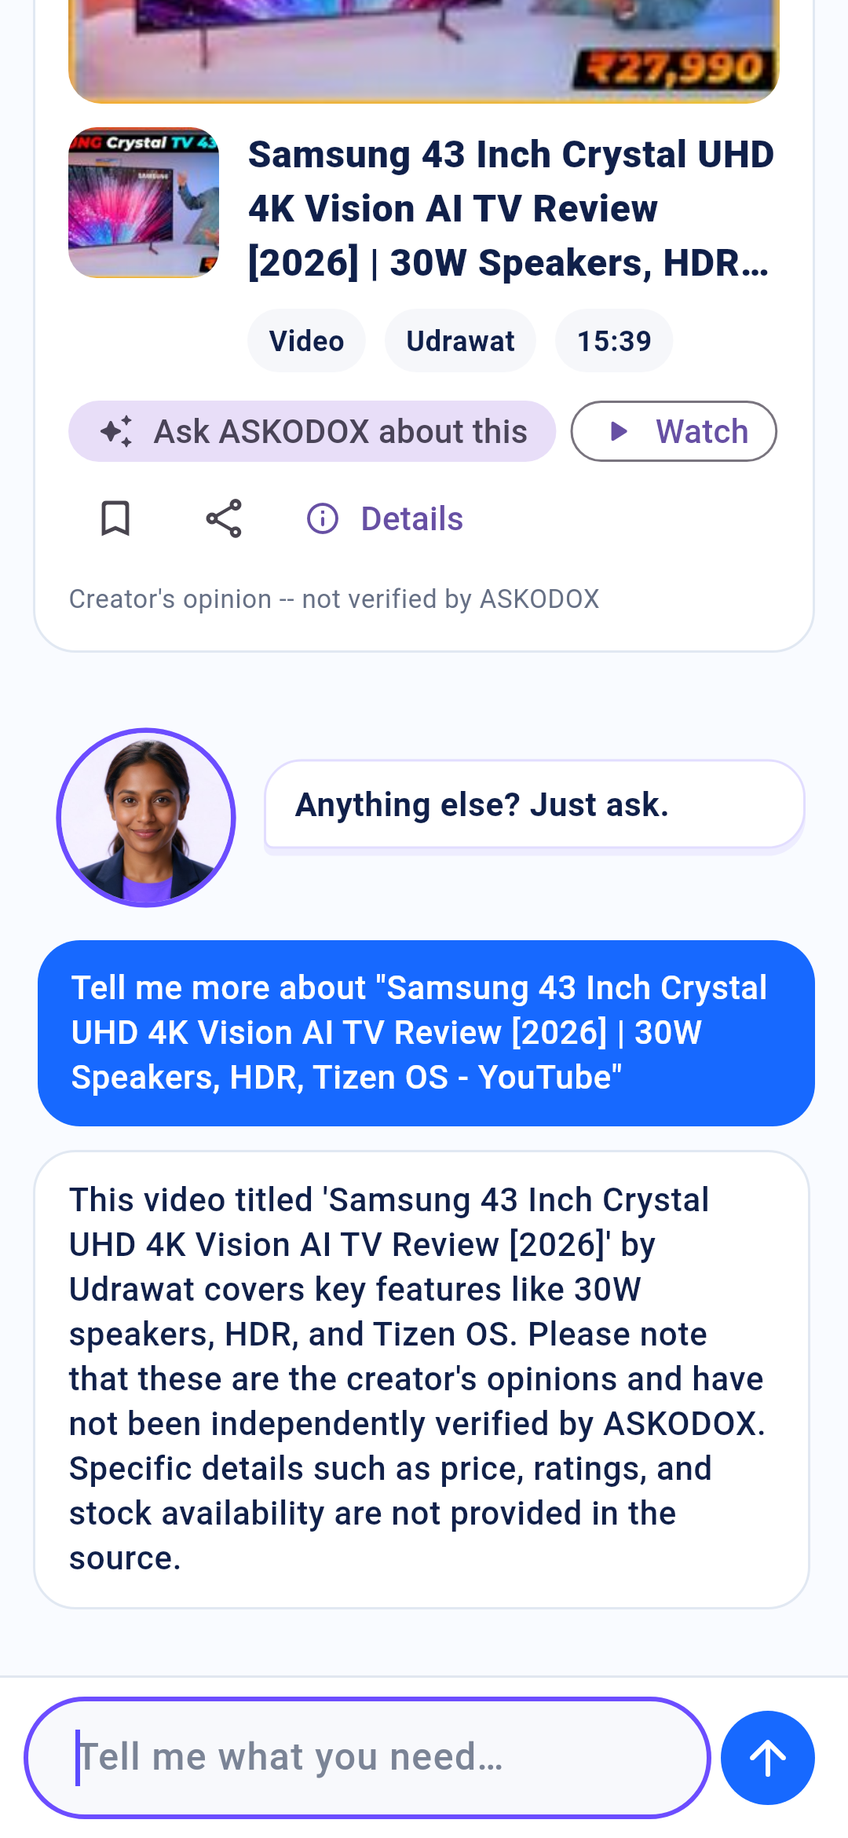
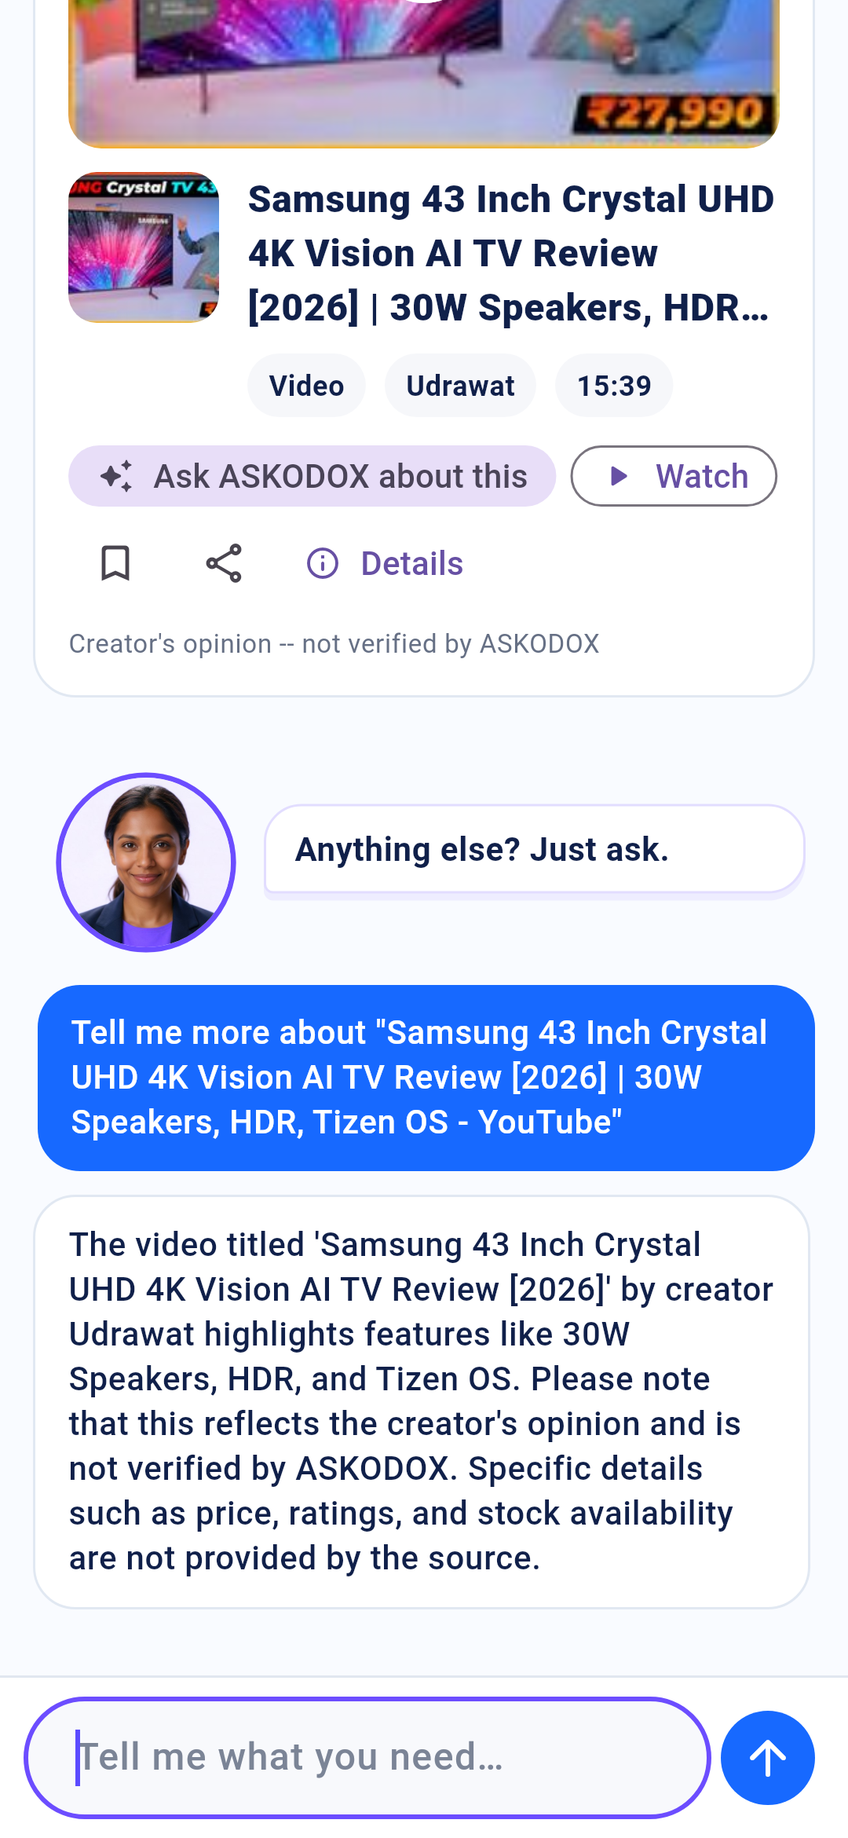
Video real-content proof (run 36656721936)

Changed region(s): [[0.0306, 0.0, 0.9778, 0.8735], [0.3056, 0.4056, 0.7944, 0.4679]]

diff --git a/docs/video_proof/README.md b/docs/video_proof/README.md
@@ -1,6 +1,6 @@
 # Real video content proof
 
-Generated 2026-09-30T01:41:45Z by `.github/workflows/video-real-content-proof.yml` (run 36656034203).
+Generated 2026-09-30T01:50:26Z by `.github/workflows/video-real-content-proof.yml` (run 36656721936).
 
 * Video rows: **real**, from production's live web video search (Brave) -- replayed into this branch's pipeline, which adds references, YouTube oEmbed checks (live network), linking and disclosures.
 * AI answers: **real**, from the production assistant (`/api/in-app/assistant`) given exactly what the app sends (question + grounding from this branch's explain).
@@ -34,11 +34,11 @@ Label: Creator's opinion -- not verified by ASKODOX
 
 **User:** Tell me more about "Samsung 43 Inch Crystal UHD 4K Vision AI TV Review [2026] | 30W Speakers, HDR, Tizen OS - YouTube"
 
-**ASKODOX AI (production):** This video titled 'Samsung 43 Inch Crystal UHD 4K Vision AI TV Review [2026]' by Udrawat covers key features like 30W speakers, HDR, and Tizen OS. Please note that these are the creator's opinions and have not been independently verified by ASKODOX. Specific details such as price, ratings, and stock availability are not provided in the source.
+**ASKODOX AI (production):** The video titled 'Samsung 43 Inch Crystal UHD 4K Vision AI TV Review [2026]' by creator Udrawat highlights features like 30W Speakers, HDR, and Tizen OS. Please note that this reflects the creator's opinion and is not verified by ASKODOX. Specific details such as price, ratings, and stock availability are not provided by the source.
 
 **User (follow-up, same conversation):** Is it worth buying, and where can I get it here?
 
-**Production (main) AI:** The Samsung 43-inch Crystal UHD TV offers good value with its 30W speakers, 4K display, and Tizen OS for general viewing. You can check for availability at electronics stores like Reliance Digital, Bajaj Electronics, or Croma in Vijayawada, or order online through Samsung, Amazon, or Flipkart.  
+**Production (main) AI:** The Samsung 43-inch Crystal UHD 4K TV is generally praised for its crisp display, Tizen OS, and 30W speaker output, making it a strong budget 4K option. You can check for availability at local electronics stores in Vijayawada like Reliance Digital, Croma, or Pai International.  
 **This branch:** Let me check real sellers, shops and online options near you -- the results appear below. (action `find_local`: the real options below are the answer; shop names never come from the AI's memory)
 
 **Next step:** "samsung 43 inch tv near me" → samsung 43 inches tv | Used TV & DVD & Multimedia in Bangalore | Electronics & Appliances Quikr Bazaar Bangalore [used]; Samsung 43-inch TVs Price List in India (September 2026) [deals]; Second Hand TV - Old TV Latest Price, Manufacturers & Suppliers [used]; Buy Refurbished / Used TV & DVD in Vijayawada | Second Hand TV / Television For Sale Online | QuikrBazaar [used]
@@ -53,11 +53,11 @@ Label: Creator's opinion -- not verified by ASKODOX
 
 **User:** "Samsung 43 Inch Crystal UHD 4K Vision AI TV Review [2026] | 30W Speakers, HDR, Tizen OS - YouTube" గురించి చెప్పండి: ధర, దూరం, నాణ్యత, అందుబాటు, రివ్యూలు
 
-**ASKODOX AI (production):** ఈ YouTube రివ్యూ వీడియో టైటిల్ ప్రకారం, ఇది Samsung 43 Inch Crystal UHD 4K Vision AI TV కి సంబంధించింది (30W స్పీకర్లు, HDR, Tizen OS). అయితే, వీడియోలో ఏమి చెప్పారో విశ్లేషణ అందుబాటులో లేదు మరియు ఈ రివ్యూ కేవలం Creator Udrawat అభిప్రాయం మాత్రమే. ఈ మోడల్ ధర, దూరం, నాణ్యత, అందుబాటు మరియు కస్టమర్ రివ్యూల వివరాలు ప్రొవైడర్ నుండి లభించలేదు.
+**ASKODOX AI (production):** ఈ YouTube రివ్యూ వీడియో శీర్షిక ప్రకారం, ఇది 2026 నాటి Samsung 43 Inch Crystal UHD 4K Vision AI TV కి సంబంధించినది (30W స్పీకర్లు, HDR, Tizen OS). ఇవి క్రియేటర్ Udrawat యొక్క వ్యక్తిగత అభిప్రాయాలు, ASKODOX ద్వారా ధృవీకరించబడలేదు. ధర, అందుబాటు, నాణ్యత/రివ్యూల వివరాలు ప్రస్తుతానికి అందుబాటులో లేవు.
 
 **User (follow-up, same conversation):** ఇది చిన్న గదికి సరిపోతుందా?
 
-**ASKODOX AI:** అవును, 43 అంగుళాల టీవీ చిన్న గదికి లేదా మీడియం సైజ్ గదికి (సుమారు 8 నుండి 10 అడుగుల వీక్షణ దూరం) సరిగ్గా సరిపోతుంది.
+**ASKODOX AI:** అవును, 43 అంగుళాల టీవీ చిన్న లేదా విభాగాత్మక (మీడియం) గదికి బాగా సరిపోతుంది. సాధారణంగా 4 నుండి 7 అడుగుల వీక్షణ దూరం (viewing distance) ఉన్న గదులకు ఇది అనుకూలంగా ఉంటుంది.
 
 **Next step:** "samsung 43 inch tv offers" → samsung 43 inches tv | Used TV & DVD & Multimedia in Bangalore | Electronics & Appliances Quikr Bazaar Bangalore [used]; Samsung 43-inch TVs Price List in India (September 2026) [deals]; Second Hand TV - Old TV Latest Price, Manufacturers & Suppliers [used]; Buy Refurbished / Used TV & DVD in Vijayawada | Second Hand TV / Television For Sale Online | QuikrBazaar [used]
 
@@ -71,11 +71,11 @@ Label: Creator's opinion -- not verified by ASKODOX
 
 **User:** Tell me more about "Redmi Note 13 Pro Review - Not again! - YouTube"
 
-**ASKODOX AI (production):** The video 'Redmi Note 13 Pro Review - Not again!' is created by Izzi Boye and covers an unboxing and review of the 4G variant of the Redmi Note 13 Pro. Please note that this reflects the creator's opinion and is not verified by ASKODOX. Detailed specifications, price, rating, and stock information are not provided by the source.
+**ASKODOX AI (production):** This video titled 'Redmi Note 13 Pro Review - Not again!' is by creator Izzi Boye. Please note that this reflects the creator's personal opinion and has not been verified by ASKODOX. Specific details such as price, ratings, availability, and full specifications are not provided in the source.
 
 **User (follow-up, same conversation):** Is it worth buying, and where can I get it here?
 
-**Production (main) AI:** The Redmi Note 13 Pro offers strong features like a 200MP camera and 120Hz display, making it a solid choice if those fit your needs. You can check local electronics stores or online retailers for availability in Vijayawada.  
+**Production (main) AI:** The Redmi Note 13 Pro offers strong features like a 200MP camera and 120Hz AMOLED display, making it a solid choice if you want good performance and display. You can buy it online or check local electronics stores in Vijayawada like Mi Home, Reliance Digital, or Bajaj Electronics.  
 **This branch:** Let me check real sellers, shops and online options near you -- the results appear below. (action `find_local`: the real options below are the answer; shop names never come from the AI's memory)
 
 **Next step:** "redmi note 13 pro offers" → Buy Old Used Xiaomi Redmi Note 13 Pro 4G Phones Under ... [used]; Open Box Store [surplus]; Redmi Note 13 5G, Note 13 Pro 5G, Note 13 Pro+ 5G goes on sale on Vijay Sales - Times of India [deals]; Buy Refurbished and Second Hand Xiaomi Redmi Note 13 Pro 5G Online at Cashify Store [used]
@@ -90,11 +90,11 @@ Label: Creator's opinion -- not verified by ASKODOX
 
 **User:** Tell me more about "Tata Nexon 3000 Km Long Term Review: 3 Reasons to Buy, 3 Reasons to Avoid - YouTube"
 
-**ASKODOX AI (production):** This long-term review video by carandbike covers their experience with the Tata Nexon over 3 months and 3,000 km, highlighting 3 key reasons to buy and 3 to avoid. Please note that this is the creator's opinion and not verified by ASKODOX. Detailed specifications, price, ratings, and reviews are not provided by the source.
+**ASKODOX AI (production):** The video titled 'Tata Nexon 3000 Km Long Term Review: 3 Reasons to Buy, 3 Reasons to Avoid' is created by carandbike based on their 3-month long-term test of the subcompact SUV. Please note that this reflects the creator's opinion and is not verified by ASKODOX. Specific details like price, rating, and detailed specifications are not provided in the source.
 
 **User (follow-up, same conversation):** Is it worth buying, and where can I get it here?
 
-**Production (main) AI:** The Nexon is generally praised for its 5-star safety rating, strong build quality, and feature-packed cabin, though some users report minor tech glitches and inconsistent service experiences. You can check it out and test drive at authorized Tata Motors showrooms in Vijayawada like Select Motors or Varun Motors.  
+**Production (main) AI:** The Tata Nexon offers strong safety, good ride quality, and feature-rich variants, though some users note minor tech glitches. You can visit authorized Tata Motors showrooms in Vijayawada like Saboo RKS or Select Motors to check availability and test drive.  
 **This branch:** Let me check real sellers, shops and online options near you -- the results appear below. (action `find_local`: the real options below are the answer; shop names never come from the AI's memory)
 
 **Next step:** "tata nexon near me" → Tata NEXON Used Cars in Vijayawada | Second Hand Tata NEXON Cars in Vijayawada - Cars24 [used]; Tata Nexon On Road Price in Vijayawada (2026) – ₹8.63 lakh Onwards | Autocar India [surplus]; Tata Nexon May 2026 Offers in Vijayawada - Latest Discount & EMI Offers [deals]; 7+ Used Tata Nexon Cars in Vijayawada - Second Hand Tata Nexon Cars in Vijayawada [used]
@@ -109,11 +109,11 @@ Label: Creator's opinion -- not verified by ASKODOX
 
 **User:** Tell me more about "Urban Company AC Service Vs Nobroker AC Service 2025 | Which is Best?? - YouTube"
 
-**ASKODOX AI (production):** This video titled 'Urban Company AC Service Vs Nobroker AC Service 2025 | Which is Best??' by Crazyy Unboxing presents the creator's personal review comparing Urban Company and NoBroker AC services. Please note that this is the creator's opinion and is not verified by ASKODOX. Specific details like pricing, ratings, or detailed service parameters are not provided in the source description.
+**ASKODOX AI (production):** The video titled 'Urban Company AC Service Vs Nobroker AC Service 2025 | Which is Best??' is by creator Crazyy Unboxing. It features an honest review comparing the AC services of Urban Company and NoBroker. Please note that this reflects the creator's opinion and is not verified by ASKODOX. Details like specific pricing, ratings, or availability are not provided in the source.
 
 **User (follow-up, same conversation):** Is it worth buying, and where can I get it here?
 
-**Production (main) AI:** It depends on your preference for pricing and service guarantees, but both Urban Company and NoBroker operate in Vijayawada. Would you like me to help you book an AC service locally?  
+**Production (main) AI:** It depends on your preference for pricing and service quality. You can book AC servicing directly through the Urban Company or NoBroker apps, or hire local technicians in Vijayawada.  
 **This branch:** Let me check real sellers, shops and online options near you -- the results appear below. (action `find_local`: the real options below are the answer; shop names never come from the AI's memory)
 
 **Next step:** "ac service near me" → Professional AC service & repair experts in Vijayawada, India [online]; Split AC Services in Vijayawada [online]; Top AC Service in Vijayawada, Best AC Repair Service in Vijayawada | Sulekha Vijayawada [online]; Top AC Repair Services in Vijayawada - AC Installation - Servicing - Justdial [online]
@@ -128,11 +128,11 @@ Label: Creator's opinion -- not verified by ASKODOX
 
 **User:** Tell me more about "HYDERABADI CHICKEN DUM BIRYANI RECIPE | हैदराबादी चिकन दम बिरयानी बनाने का तरीका | Chef Sanjyot Keer - YouTube"
 
-**ASKODOX AI (production):** This is a video by Your Food Lab featuring Chef Sanjyot Keer, titled 'HYDERABADI CHICKEN DUM BIRYANI RECIPE'. Note that this content reflects the creator's opinion and has not been verified by ASKODOX. Specific details like ratings, reviews, or full step-by-step specifications are not provided in the summary.
+**ASKODOX AI (production):** This video is 'Hyderabadi Chicken Dum Biryani Recipe' by Chef Sanjyot Keer from Your Food Lab. Please note that these are the creator's opinions and instructions, which are not verified by ASKODOX. Specific details like ratings, reviews, or full step-by-step specifications are not provided in the summary source.
 
 **User (follow-up, same conversation):** Is it worth buying, and where can I get it here?
 
-**Production (main) AI:** The video itself is a recipe tutorial by Chef Sanjyot Keer, highly regarded for home cooking. If you'd like to order Hyderabadi Chicken Dum Biryani in Vijayawada instead, I can help you find top-rated local restaurants.  
+**Production (main) AI:** Are you looking to order Hyderabadi Chicken Biryani for delivery from a local restaurant in Vijayawada?  
 **This branch:** Let me check real sellers, shops and online options near you -- the results appear below. (action `find_local`: the real options below are the answer; shop names never come from the AI's memory)
 
 **Next step:** "hyderabadi biryani near me" → Biryani - Used Kitchen & Other Appliances for sale in India | OLX [used]; Biryani Blues | Order Authentic Hyderabadi Dum Biryani Online [deals]; Order The Biryani Life Hyderabadi & Lucknowi Biryani Online in Vijayawada from EatSure [online]; Order Online – HYDERABAD BIRYANI POINT [online]
@@ -147,11 +147,11 @@ Label: Creator's opinion -- not verified by ASKODOX
 
 **User:** Tell me more about "Ultimate Araku Valley Travel Guide: Top Things to Do and See - YouTube"
 
-**ASKODOX AI (production):** The video "Ultimate Araku Valley Travel Guide: Top Things to Do and See" by Let's Discover India covers popular spots like Borra Caves and Anantagiri Waterfalls. Note that these are the creator's opinions and highlights, not verified by ASKODOX. Details like ratings, specific prices, or detailed itineraries are not provided by the source.
+**ASKODOX AI (production):** This video titled 'Ultimate Araku Valley Travel Guide: Top Things to Do and See' is created by Let's Discover India. According to the creator's description, it covers hidden gems of Araku Valley including Borra Caves and Anantagiri Waterfalls. Please note that these are the creator's opinions and not verified by ASKODOX. Specific details like ratings, reviews, or full video content are not provided by the source.
 
 **User (follow-up, same conversation):** Is it worth buying, and where can I get it here?
 
-**Production (main) AI:** Are you asking about a specific local product from Araku, like Araku Coffee or local handicrafts? Let me know what product you are looking for so I can help you find where to buy it in Vijayawada.  
+**Production (main) AI:** Are you asking about a specific item, product, or ticket mentioned in the guide? Please specify what you are looking to buy.  
 **This branch:** Let me check real sellers, shops and online options near you -- the results appear below. (action `find_local`: the real options below are the answer; shop names never come from the AI's memory)
 
 **Next step:** "araku valley trip reviews" → Araku Valley Tour Packages from Vijayawada, Flat 20% Off - Book at Lowest Price [deals]; 5 Araku Valley Tour Packages at ₹6785 pp - Book Online with 20% Off [deals]; Araku Valley Tour Packages from Vijayawada | Araku Valley Packages from Vijayawada | Araku Valley Honeymoon Packages from Vijayawada | Araku Valley Holiday Pack [deals]; Vijayawada To Araku Valley Trains | Book From 6 Trains, Timetable, Fare [online]
@@ -166,11 +166,11 @@ Label: Creator's opinion -- not verified by ASKODOX
 
 **User:** Tell me more about "The Truth About the Royal Enfield Classic 350 (2025 Review) - YouTube"
 
-**ASKODOX AI (production):** According to the video description by Jack Brock, this review focuses on straightforward feedback about the Royal Enfield Classic 350, avoiding over-produced cinematic shots. Please note that this reflects the creator's personal opinion and is not verified by ASKODOX. Specific details like price, bike condition, and ratings are not provided in the source.
+**ASKODOX AI (production):** This video by creator Jack Brock is titled 'The Truth About the Royal Enfield Classic 350 (2025 Review)'. The creator focuses on a straightforward review rather than an over-produced cinematic one. Please note that these are the creator's opinions and not verified by ASKODOX. Specifics like price, vehicle condition, and detailed ratings are not provided in the source summary.
 
 **User (follow-up, same conversation):** Is it worth buying, and where can I get it here?
 
-**Production (main) AI:** The Classic 350 is well-regarded for its refined engine and comfortable cruising, though it is heavy. In Vijayawada, you can check authorized Royal Enfield showrooms or local pre-owned bike dealers.  
+**Production (main) AI:** The Classic 350 is popular for its smooth J-series engine, classic styling, and improved reliability, though it is heavy and lacks high top-end speed. You can look for used models at local pre-owned two-wheeler dealerships or online platforms in Vijayawada.  
 **This branch:** Let me check real sellers, shops and online options near you -- the results appear below. (action `find_local`: the real options below are the answer; shop names never come from the AI's memory)
 
 **Next step:** "used royal enfield classic 350 near me" → 13 Used Royal Enfield Classic in Vijayawada. Buy from Owners and Dealers - Bikes4Sale [used]; 9 Used Royal Enfield Classic 350 Bikes in Vijayawada - Buy & Sell Second Hand Bikes [deals]; Royal Enfield Classic 350 price in Vijayawada - September 2026 on road price of Classic 350 in Vijayawada [deals]; Used Royal Enfield Classic 350 Bikes in Vijayawada - Second Hand Royal Enfield Classic 350 Bikes for Sale in Vijayawada [used]
@@ -185,11 +185,11 @@ Label: Creator's opinion -- not verified by ASKODOX
 
 **User:** Tell me more about "iPhone 15 in 2026 - worth it? (Review) - YouTube"
 
-**ASKODOX AI (production):** Based on the video title and description by creator 91Tech (which is their opinion and not verified by ASKODOX), the iPhone 15 & 15 Plus are noted as solid midrange smartphones featuring USB-C. Details like price, rating, reviews, condition, and availability are not provided in the source.
+**ASKODOX AI (production):** The video 'iPhone 15 in 2026 - worth it? (Review)' by 91Tech expresses the creator's opinion that the iPhone 15 and 15 Plus are solid midrange smartphones featuring USB-C, noting they are over 2 years old and recently discontinued. Please note this is the creator's opinion and is not verified by ASKODOX. Specific details like price, rating, reviews, stock, and detailed specifications were not provided by the source.
 
 **User (follow-up, same conversation):** Is it worth buying, and where can I get it here?
 
-**Production (main) AI:** The iPhone 15 offers a great display, USB-C, and solid performance, making it a strong choice. You can check local electronics stores like Reliance Digital or Poorvika in Vijayawada for current pricing and availability.  
+**Production (main) AI:** The iPhone 15 is still a solid phone with USB-C and great cameras, though it's a couple of generations old now. In Vijayawada, you can check availability at local electronics stores like Reliance Digital, Bajaj Electronics, or Apple Authorised Resellers.  
 **This branch:** Let me check real sellers, shops and online options near you -- the results appear below. (action `find_local`: the real options below are the answer; shop names never come from the AI's memory)
 
 **Next step:** "iphone 15 offers" → Buy & Sell Second Hand iPhones in Vijayawada, Used Apple Mobile Phones in Vijayawada | OLX [used]; Apple Open Box [surplus]; iPhone 15 is available for less than Rs 35,000 on Vijay Sales, here is how the deal works - India Today [deals]; Buy & Sell Second Hand Iphone in Vijayawada, Used Mobiles in Vijayawada | OLX [used]
@@ -204,11 +204,11 @@ Label: Creator's opinion -- not verified by ASKODOX
 
 **User:** "Urban Company AC Service Vs Nobroker AC Service 2025 | Which is Best?? - YouTube" గురించి చెప్పండి: ధర, దూరం, నాణ్యత, అందుబాటు, రివ్యూలు
 
-**ASKODOX AI (production):** ఈ యూట్యూబ్ వీడియో (Crazyy Unboxing ఛానెల్) 'Urban Company' మరియు 'NoBroker' AC సర్వీసుల పోలిక మరియు రివ్యూ గురించి చర్చిస్తుంది. అయితే, వీడియో వివరణ ప్రకారం ధర, దూరం, నాణ్యత, అందుబాటు మరియు రివ్యూల వివరాలు ప్రత్యేకంగా అందించబడలేదు. ఇది కేవలం సృష్టికర్త (Creator) వ్యక్తిగత అభిప్రాయం మాత్రమే, ASKODOX ద్వారా ప్రామాణికంగా నిర్ధారించబడలేదు. విజయవాడలో మీకు నేరుగా AC సర్వీస్ కావాలంటే చెప్పండి, వివరాలు చూద్దాం.
+**ASKODOX AI (production):** ఈ వీడియో Urban Company మరియు NoBroker AC సర్వీస్ల మధ్య పోలిక మరియు రివ్యూ గురించి చర్చిస్తుంది (ఇది క్రియేటర్ 'Crazyy Unboxing' యొక్క సొంత అభిప్రాయం, ASKODOX ద్వారా నిరూపించబడలేదు). అయితే, ఇందులో ఖచ్చితమైన ధరలు, దూరం, అందుబాటు మరియు కస్టమర్ రివ్యూల వివరాలు అందించబడలేదు.
 
 **User (follow-up, same conversation):** ఇది చిన్న గదికి సరిపోతుందా?
 
-**ASKODOX AI:** చిన్న గదికి (సుమారు 100-120 చదరపు అడుగులు) 1 టన్ను (1 Ton) AC సరిగ్గా సరిపోతుంది. మీకు ఎంత కెపాసిటీ ఉన్న AC ఉంది లేదా ఏ సర్వీస్ వివరాలు కావాలి?
+**ASKODOX AI:** చిన్న గదికి సాధారణంగా 1 టన్ను లేదా 0.8 టన్నుల ఏసీ సరిపోతుంది. మీకు ఏ బ్రాండ్ లేదా మోడల్ వివరాలు కావాలో చెబితే సరిగ్గా సరిపోతుందో లేదో చూడవచ్చు.
 
 **Next step:** "ac service near me" → Professional AC service & repair experts in Vijayawada, India [online]; Split AC Services in Vijayawada [online]; Top AC Service in Vijayawada, Best AC Repair Service in Vijayawada | Sulekha Vijayawada [online]; Top AC Repair Services in Vijayawada - AC Installation - Servicing - Justdial [online]
 
